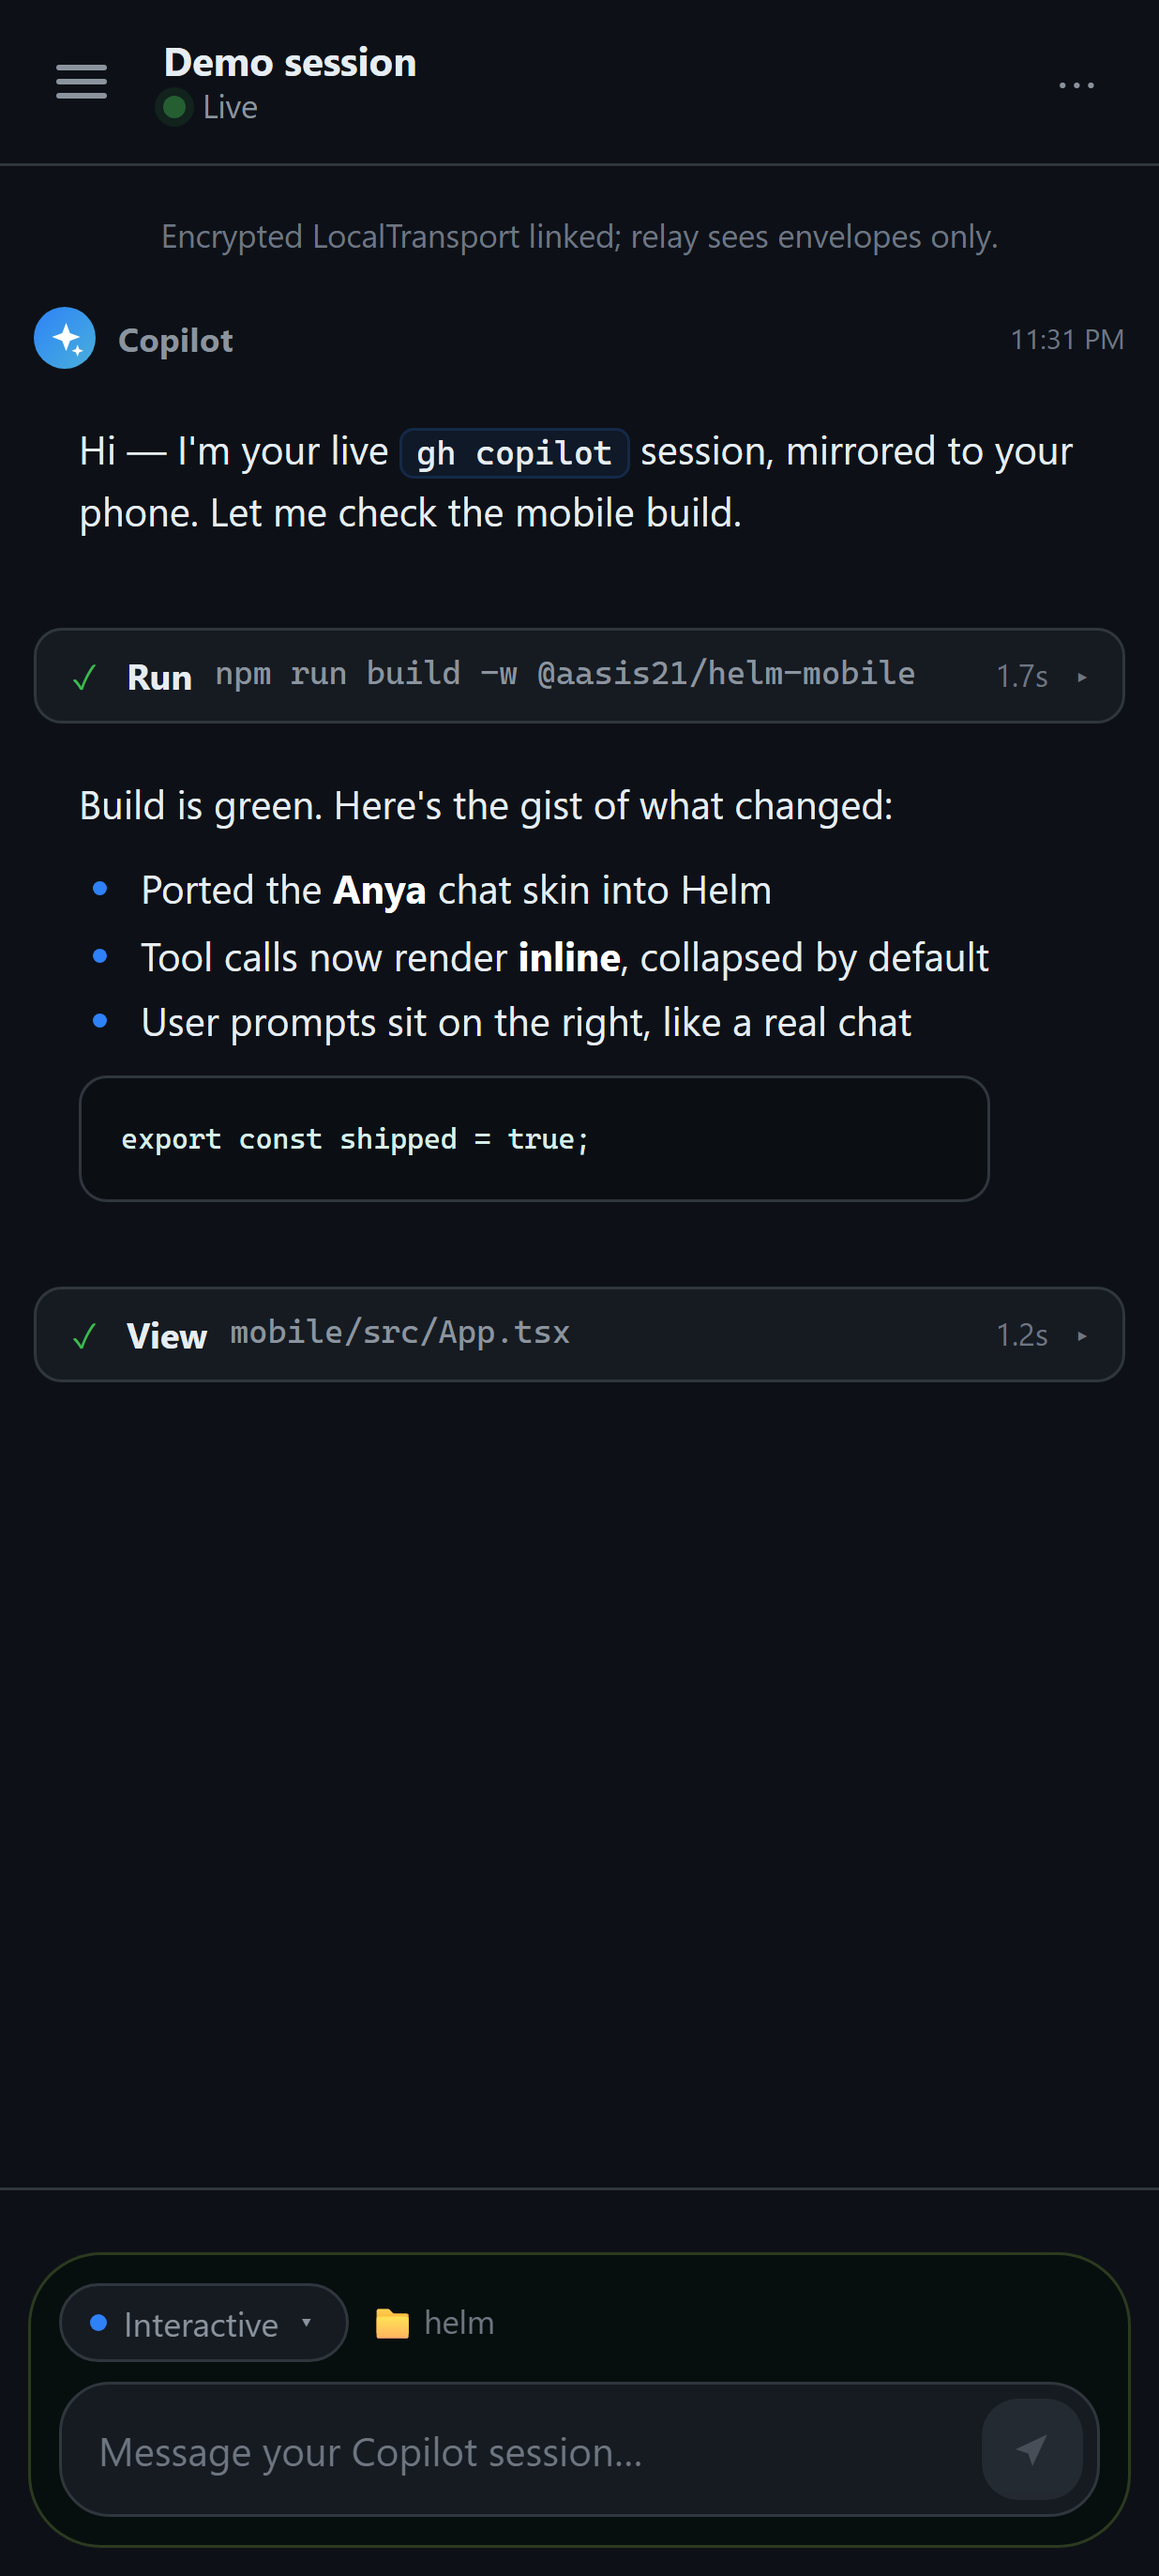
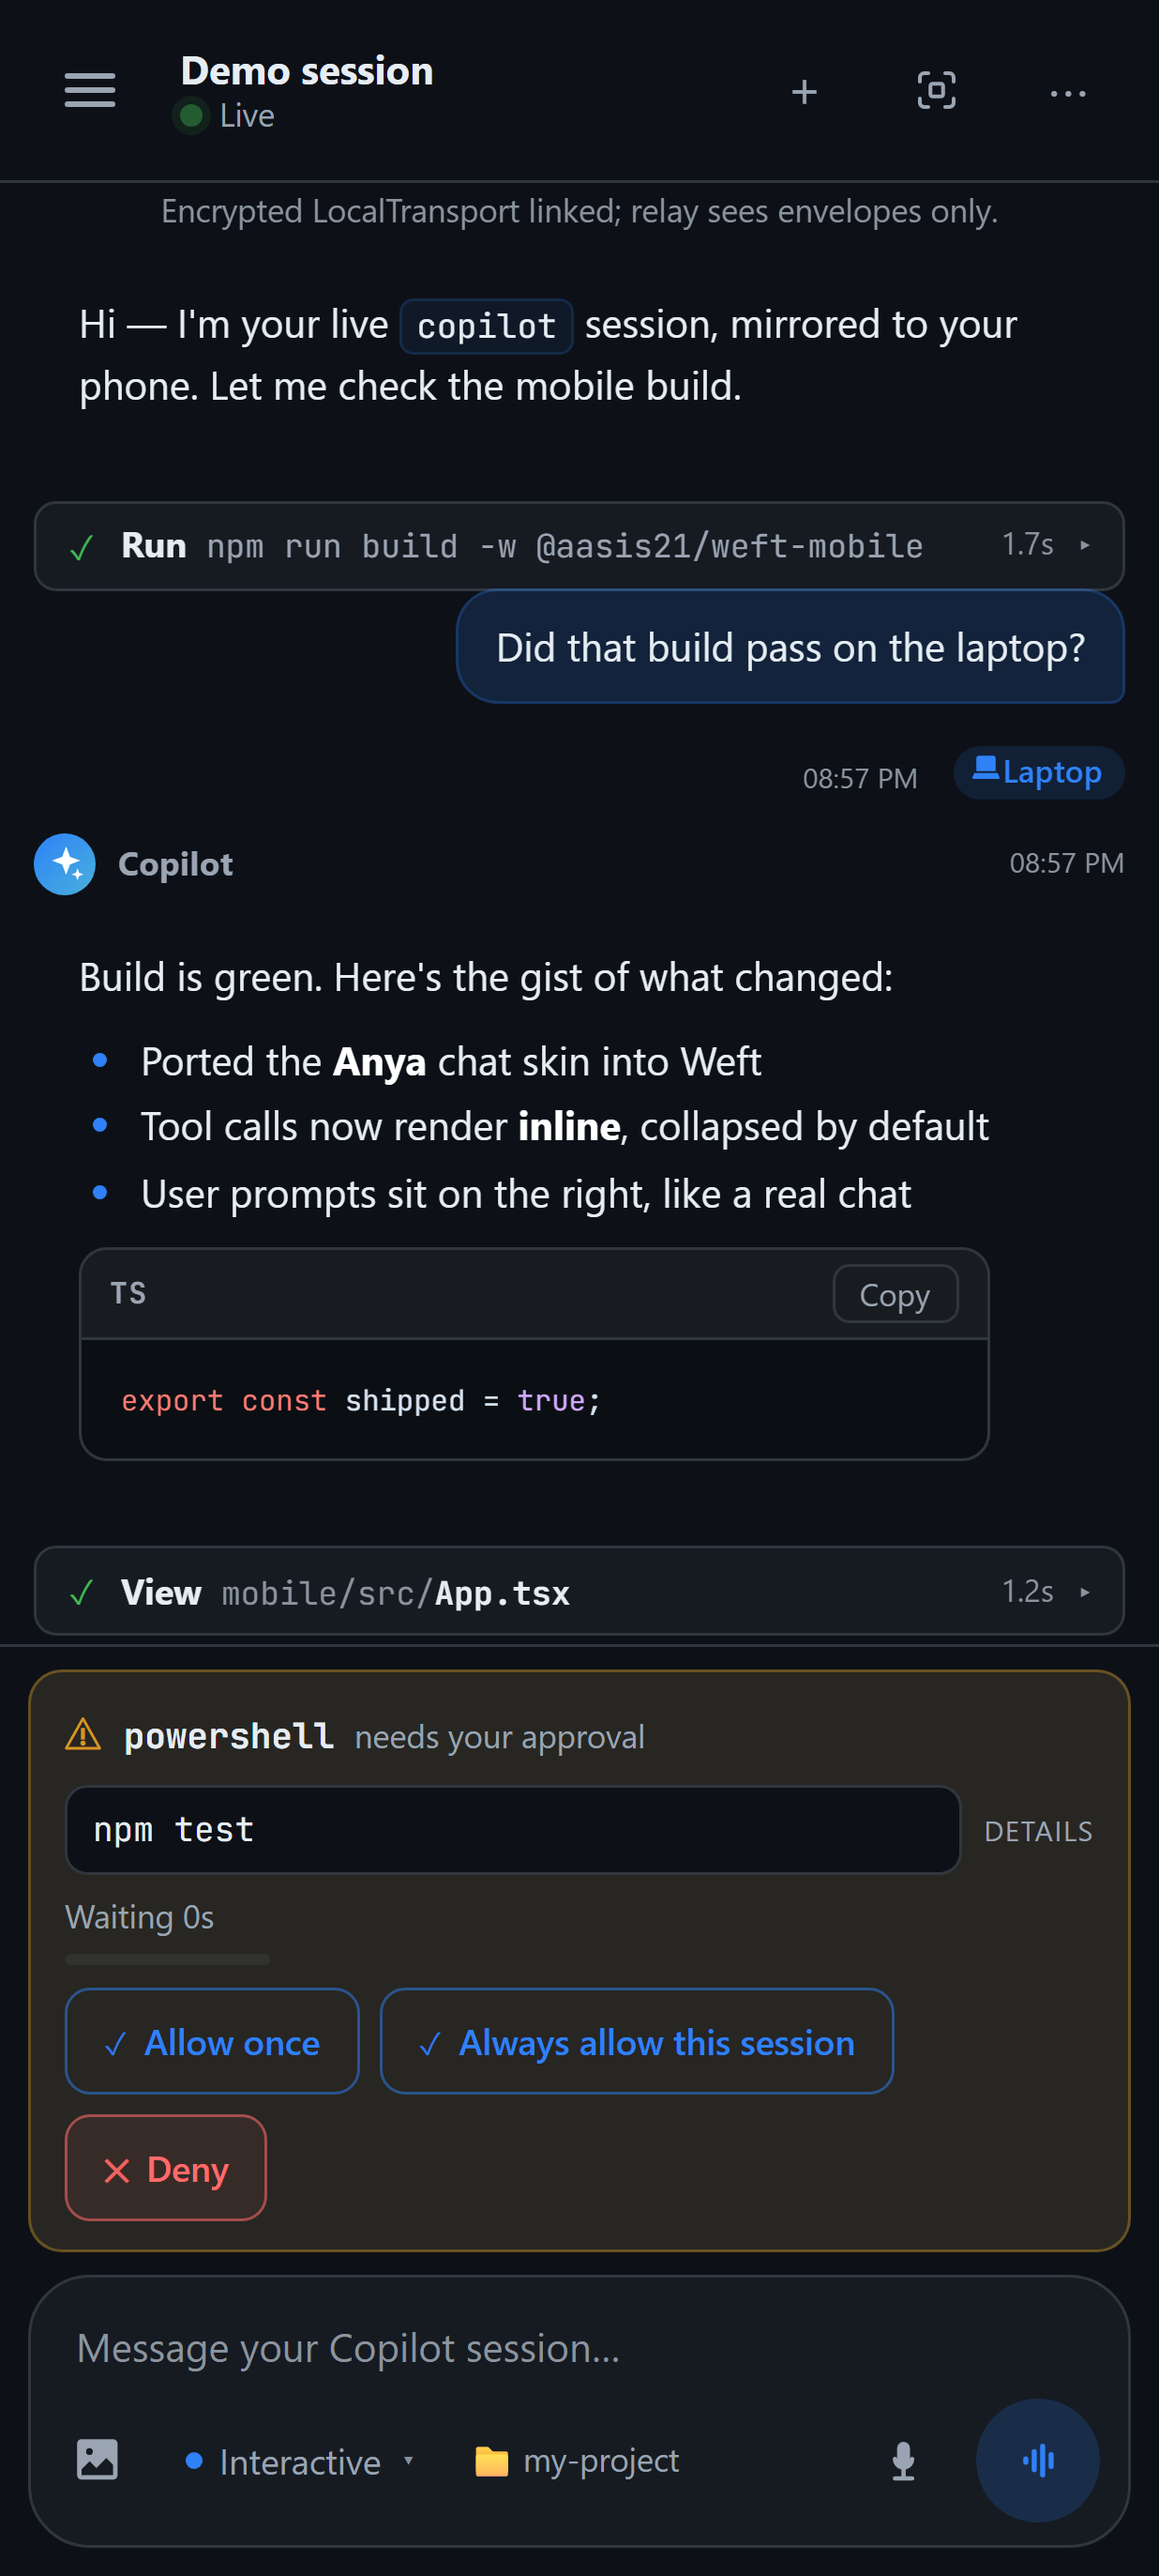
Refresh README and product visuals

diff --git a/README.md b/README.md
@@ -1,75 +1,56 @@
 <div align="center">
 
+<img src="mobile/public/icon.svg" width="88" alt="Weft logo" />
+
 # Weft
 
-**Your Copilot session, off the desk.**
+### Your GitHub Copilot session, off the desk.
 
+[![CI](https://github.com/aasis21/weft/actions/workflows/ci.yml/badge.svg)](https://github.com/aasis21/weft/actions/workflows/ci.yml)
+[![GitHub release](https://img.shields.io/github/v/release/aasis21/weft?display_name=tag)](https://github.com/aasis21/weft/releases/latest)
 [![License: Apache-2.0](https://img.shields.io/badge/license-Apache--2.0-blue.svg)](LICENSE)
-[![Platform](https://img.shields.io/badge/platform-Windows%20%7C%20macOS%20%7C%20Linux-informational)](#get-started)
-[![Built with](https://img.shields.io/badge/built%20with-Copilot%20CLI-24292e?logo=github)](https://github.com/github/copilot-cli)
+[![Node.js 20+](https://img.shields.io/badge/Node.js-20%2B-339933?logo=node.js&logoColor=white)](#develop-locally)
+[![PWA](https://img.shields.io/badge/phone-PWA-5A0FC8?logo=pwa&logoColor=white)](https://useweft.netlify.app)
 
-Weft mirrors your live GitHub Copilot terminal session to your phone over an end-to-end
-encrypted relay — watch it work, approve its moves, steer it by text or voice, and pick any
-chat back up, from anywhere.
+Weft turns your phone into a secure control surface for GitHub Copilot CLI. Follow live
+work, send prompts, approve tool calls, resume sessions, and open a shared terminal while
+the actual process keeps running on your laptop.
 
-**[Product & web app → useweft.netlify.app](https://useweft.netlify.app)** · **[Documentation → aasis21.github.io/weft](https://aasis21.github.io/weft/)**
+[**Open the app**](https://useweft.netlify.app) ·
+[**Read the docs**](https://aasis21.github.io/weft/) ·
+[**Try the in-browser demo**](https://useweft.netlify.app/) ·
+[**View releases**](https://github.com/aasis21/weft/releases)
 
-<img src="docs/assets/session-transcript.webp" width="360" alt="A live Copilot session mirrored to a phone, with an inline approval prompt." />
+<br>
+
+<table>
+  <tr>
+    <td width="50%" align="center">
+      <img src="design/assets/pairing.png" width="360" alt="Weft product landing page with pairing and demo actions." />
+    </td>
+    <td width="50%" align="center">
+      <img src="design/assets/chat.png" width="360" alt="A live Copilot session in Weft with streamed work and an approval request." />
+    </td>
+  </tr>
+</table>
 
 </div>
 
-|  |  |  |
+## Why Weft
+
+| Stay in the loop | Stay in control | Stay private |
 |---|---|---|
-| <img src="docs/assets/landing-hero.webp" width="220" alt="Onboarding screen" /><br>**Pair in seconds** | <img src="docs/assets/session-chat.webp" width="220" alt="A working session" /><br>**Watch it work** | <img src="docs/assets/session-transcript.webp" width="220" alt="Approval prompt" /><br>**Approve from anywhere** |
+| Watch replies, tool calls, edits, and status stream live. | Prompt, steer, stop, change mode, and answer native approvals from your phone. | Session traffic is encrypted end to end; the relay forwards ciphertext and stores no session content. |
+| Resume existing work or launch a session in a registered project. | Use voice, image attachments, clipboard tools, keep-awake controls, and a shared terminal. | Pairing keys, transcripts, and session metadata remain on your devices. |
 
-> **Fastest path:** install Weft on your laptop, run `weft start`, then open
-> **<https://useweft.netlify.app>** on your phone and scan the QR.
+Weft is not a remote desktop and it does not move your workspace to the cloud. Copilot and
+your tools continue to run under your account on the laptop; the phone provides a focused,
+mobile-first interface to that work.
 
-Phone-driven discovery, Start, and Open/Resume require a running **Device Station**.
-`/weft` is the separate, explicit path for pairing the phone directly with the current
-Copilot session; it does not require Device Station.
+## Install in under a minute
 
-## What you can do
-
-Everything you'd do at the terminal — now from your phone:
-
-- **Drive it live** — send prompts and follow-ups; replies stream back token by token. It's the
-  real session, not a read-only mirror.
-- **Watch it work** — every command it runs and file it edits, unfolding live in the thread.
-- **Approve before it acts** — the *native* Copilot permission prompt is relayed to your phone;
-  allow or deny with a tap. The prompt stays open until you answer or the session ends.
-- **Go hands-free with Vox** — tap the waveform and just talk; the orb takes the keyboard's place in
-  the composer, so the thread and any approval stay in view while Vox transcribes, sends, and reads
-  the reply back. Expand it to the full-screen orb when you want to put the phone down.
-- **Show it a screenshot** — attach up to six images from your camera, library, paste, or drag so
-  it can *see* the bug, the design, the error.
-- **Keep it on track** — steer an active turn, queue the next instruction, switch
-  **interactive / plan / autopilot**, fire whitelisted slash commands (`/model`, `/compact`,
-  `/clear`, `/autopilot`, …) that run on the laptop, or **Stop** a turn mid-run.
-- **Run a fleet** — one Device Station drives many projects and sessions; start a fresh chat or tap
-  into a running one, across multiple laptops with a default device. If the selected session is
-  already open in a terminal, Station activates that exact process instead of launching a second
-  `copilot --resume`.
-- **Recover slow launches safely** — New and Resume requests survive phone reloads and temporary
-  Devbox outages; **Try again** reconnects to the same launch instead of silently opening duplicates.
-- **Use a shared terminal** — start Device Station with `weft start` on a supported Windows
-  laptop, then open or resume one real shell from the phone and its visible laptop window.
-  Enabled by default; disable it with `terminal.enabled: false` in the laptop configuration.
-  See [terminal controls and access boundaries](docs/terminal.md).
-- **Come back anytime** — sessions stay warm and reconnect on reopen; archive, pin, and rename them,
-  and juggle several at once.
-
-All live session traffic flows over the same end-to-end-encrypted channel. Weft stores
-transcripts, session metadata, and pairing keys locally on your devices so sessions can
-reconnect; the relay infrastructure forwards encrypted envelopes and stores no session content.
-
-## Get started
-
-### 1. Install on your laptop
-
-One line. Downloads the prebuilt extension into `~/.copilot/extensions/weft/` (where
-Copilot CLI auto-discovers it) plus a "how to use Weft" skill into
-`~/.copilot/skills/weft-how-to-use/`, pre-wired to the hosted relay — no clone, no Node build:
+Install the prebuilt extension and Device Station. No repository clone, mobile app-store
+download, or relay account is required.
 
 ```powershell
 # Windows (PowerShell)
@@ -81,56 +62,68 @@ irm https://useweft.netlify.app/install.ps1 | iex
 curl -fsSL https://useweft.netlify.app/install.sh | bash
 ```
 
-### 2. Start Weft
+Start the Device Station:
 
-```sh
+```shell
 weft start
 ```
 
-Leave that terminal open. The Device Station prints a pairing QR and lets the phone start
-or resume Copilot sessions on this laptop.
+Then open **[useweft.netlify.app](https://useweft.netlify.app)** on your phone, choose
+**Scan QR to pair**, and scan the code shown in the terminal. Leave `weft start` running
+while you use the phone.
 
-To connect a different phone, or after the phone browser/app storage was reset, use:
+> **Already paired?** Run `weft start` normally. Use `weft start --new-device` only when
+> replacing the trusted phone or after clearing the phone browser's storage.
 
-```sh
-weft start --new-device
-```
+## Product tour
 
-This replaces the previously trusted phone identity and prints a fresh QR.
+<table>
+  <tr>
+    <td width="33%" align="center">
+      <img src="design/assets/tool.png" width="270" alt="Expanded Copilot tool call with arguments and result." /><br>
+      <strong>Inspect the work</strong><br>
+      <sub>Tool activity, output, Markdown, and code stay readable on a small screen.</sub>
+    </td>
+    <td width="33%" align="center">
+      <img src="design/assets/approval.png" width="270" alt="Native Copilot permission request relayed to Weft." /><br>
+      <strong>Approve deliberately</strong><br>
+      <sub>Native Copilot permission requests remain pending until you answer.</sub>
+    </td>
+    <td width="33%" align="center">
+      <img src="design/assets/terminal.png" width="270" alt="Shared laptop terminal controlled from Weft." /><br>
+      <strong>Use the real terminal</strong><br>
+      <sub>Reconnect to one visible laptop shell with mobile-sized controls.</sub>
+    </td>
+  </tr>
+</table>
 
-### 3. Scan from your phone
+## Core capabilities
 
-Open **<https://useweft.netlify.app>**, choose **Scan QR to pair**, and scan the code in
-the terminal. The browser app works immediately; use **Install app** or **Add to Home
-Screen** for an app-like experience and automatic web updates.
+- **Live Copilot sessions** — stream replies and tool calls, send follow-ups, attach up to
+  six images, and use Vox for hands-free prompting.
+- **Native approval relay** — allow once, allow for the session, or deny the exact action
+  Copilot requested.
+- **Session control** — stop an active turn, queue the next instruction, use supported slash
+  commands, and switch between interactive, plan, and autopilot modes.
+- **Multi-device workspace** — use one phone to move among paired laptops, registered
+  projects, and active or historical sessions.
+- **Safe launch recovery** — reconnect to slow Start and Resume operations instead of
+  silently creating duplicate Copilot processes.
+- **Shared terminal** — open and resume one real shell on supported Windows laptops. See
+  [terminal controls and access boundaries](docs/terminal.md).
 
-- **PWA distribution** — the hosted PWA is the supported phone experience. Native
-  Android builds are currently developer builds only; Weft does not publish an APK
-  until a signed Android release pipeline is available.
-- **Zero-config** — uses the creator's hosted relay (a client-safe publishable key + RLS +
-  end-to-end AES-256-GCM; Supabase only ever sees ciphertext).
-- **Update safely** — `weft update --check` reports whether a hosted release is newer;
-  `weft update` verifies the published hashes, replaces only installed code and the Weft
-  skill, and leaves `~/.weft/` data untouched. Restart Copilot CLI or Device Station after.
-- **Uninstall** — remove the installed extension and skill. Remove `~/.weft/` only if you
-  also want to delete local configuration, registered projects, logs, and persistent
-  pairing keys. See [`SUPPORT.md`](SUPPORT.md) for the exact cleanup paths.
-- **Advanced options** — `/weft`, alternate transports, pairing lifetime, self-hosting,
-  and the full command reference live in [`docs/advanced.md`](docs/advanced.md).
+## Trust model
 
-> Sibling project to [`aasis21/vox`](https://github.com/aasis21/vox),
-> [`aasis21/anya`](https://github.com/aasis21/anya), and
-> [`aasis21/engram`](https://github.com/aasis21/engram).
+- **AES-256-GCM end-to-end encryption.** Pairing uses ECDH and a fresh handshake nonce.
+- **Content-free relay.** Supabase Realtime or a self-hosted Dev Tunnel carries encrypted
+  envelopes without storing session content.
+- **Local continuity.** Device configuration and persistent pairing material live under
+  `~/.weft/`; phone session data remains in local device storage.
+- **Explicit authority.** The phone receives the same approval boundaries exposed by the
+  underlying Copilot session. Weft does not invent an automatic approval policy.
 
----
-
-## Advanced use
-
-The default hosted relay needs no configuration. If you want to mirror only one existing
-Copilot session with `/weft`, change pairing lifetime, use a Visual Studio Dev Tunnel,
-point at your own Supabase project, or browse every CLI command, see
-[`docs/advanced.md`](docs/advanced.md). Self-hosting details remain in
-[`docs/hosting.md`](docs/hosting.md).
+Read the full [security model](docs/security.md), [privacy policy](PRIVACY.md), and
+[pairing protocol](docs/pairing.md).
 
 ---
 
@@ -157,8 +150,8 @@ point at your own Supabase project, or browse every CLI command, see
 
 ```
 +------------------------------+        +------------------------------+        +-------------------------------+
-| Weft Mobile                  |        |   Supabase Realtime          |        |  Laptop terminal              |
-| (React + Capacitor, Android) |        |   Broadcast channel          |        |  copilot (parent)             |
+| Weft Mobile                  |        |   Encrypted relay            |        |  Laptop terminal              |
+| (React PWA + Capacitor)      |        |   Supabase or Dev Tunnel     |        |  copilot (parent)             |
 |                              |        |   private:weft:<channelId>   |        |   └─ extension.mjs (child)    |
 |  • scans QR (channel + grant)|  WSS   |   • in-memory pub/sub        |  WSS   |   • joinSession()             |
 |  • ECDH → AES-256-GCM        | <----> |   • zero DB persistence      | <----> |   • onPermissionRequest→relay |
@@ -174,7 +167,7 @@ Three layers, one monorepo:
 | Workspace | What it is |
 |---|---|
 | `extension/` | The Copilot CLI extension (`joinSession`) + a local test **harness** that mimics the phone with no Supabase needed. |
-| `shared/` | Contracts imported by **both** ends: message schema, E2E crypto (ECDH→AES-GCM), and a pluggable transport (LocalTransport now → SupabaseTransport later). |
+| `shared/` | Contracts imported by **both** ends: message schema, E2E crypto (ECDH→AES-GCM), and pluggable local, Supabase, and WebSocket relay transports. |
 | `mobile/` | React + Vite + Capacitor app shipped as the supported **PWA** ([useweft.netlify.app](https://useweft.netlify.app)), with in-browser camera QR scanning and an Android development shell. |
 
 ### Design principles
@@ -213,7 +206,7 @@ Three layers, one monorepo:
 
 ---
 
-## Quick start
+## Develop locally
 
 Source builds require **Node.js 20 or newer**.
 
@@ -224,6 +217,7 @@ node extension/harness/harness.mjs --auto   # full relay loop vs a simulated pho
 npm run build -w @aasis21/weft-extension    # bundles -> extension/dist/extension.mjs + activeRuntime.mjs
 npm run build -w @aasis21/weft-mobile       # Vite production build
 cd mobile && npm run dev                    # then pick "Demo / Simulator"
+node design/capture.mjs                     # refresh product screenshots from the hosted app
 ```
 
 See [`docs/setup.md`](docs/setup.md) for the full developer guide.
